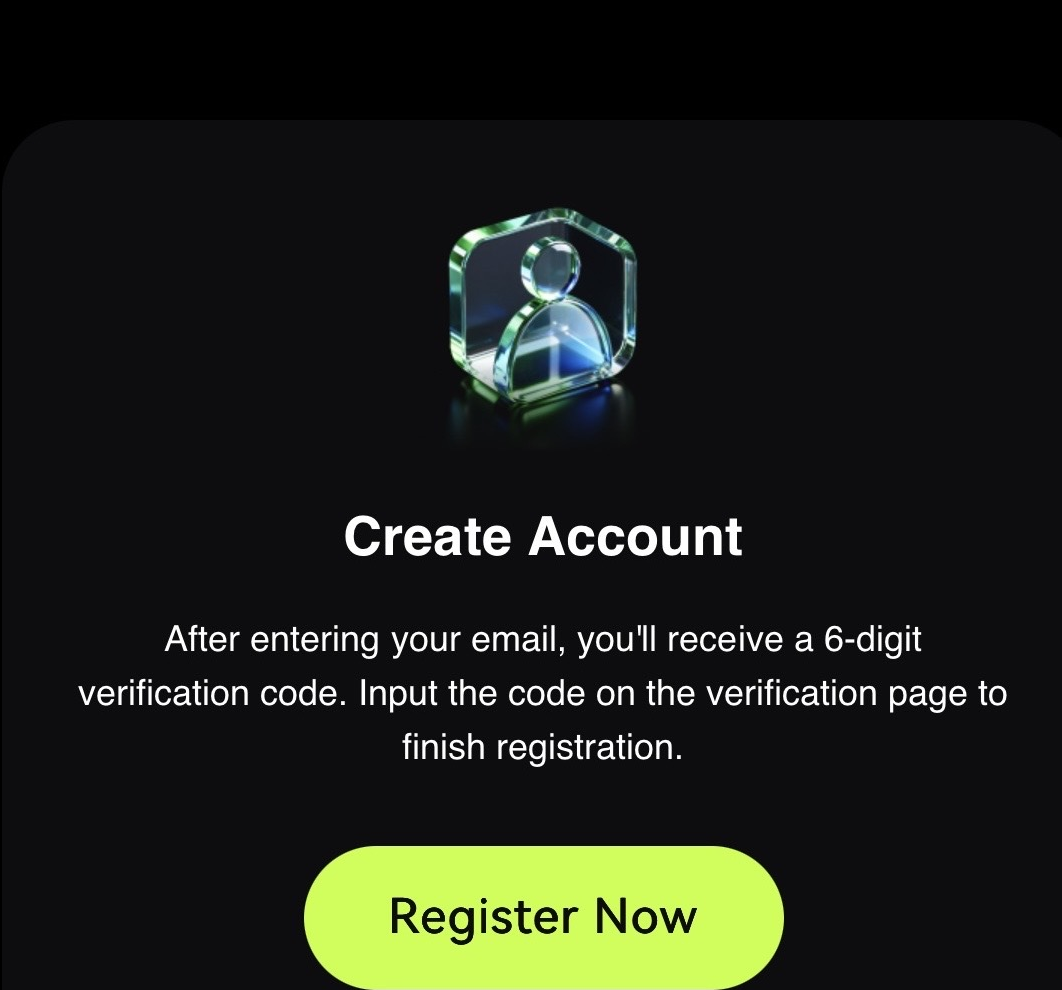
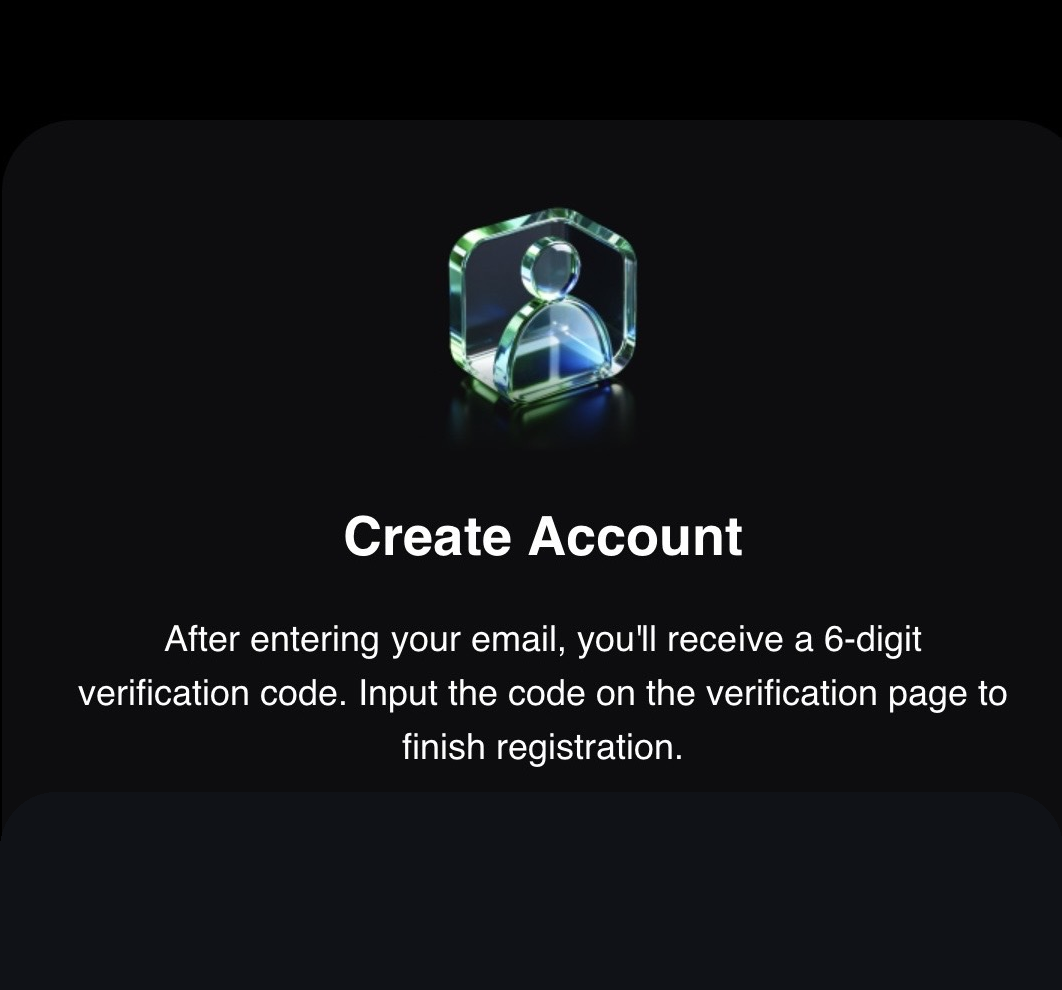
fix(ui): remove guide card button overlap

Changed region(s): [[0.2797, 0.8485, 0.7458, 1.0]]

diff --git a/public/coinflare.css b/public/coinflare.css
@@ -2005,6 +2005,7 @@ body.coinflare-page.cf-chart-open .cf-signup-link {
 .cf-trading-exp {
   display: grid;
   gap: 1rem;
+  background: #05070b;
 }
 
 .cf-guide-grid {
@@ -2018,7 +2019,7 @@ body.coinflare-page.cf-chart-open .cf-signup-link {
   position: relative;
   border-radius: 30px;
   border: 1px solid rgba(255, 255, 255, 0.06);
-  background: linear-gradient(180deg, rgba(255, 255, 255, 0.02), rgba(255, 255, 255, 0)), #101012;
+  background: #0d1015;
   box-shadow: 0 22px 42px rgba(0, 0, 0, 0.44);
   transition: transform 0.24s ease, box-shadow 0.24s ease, border-color 0.24s ease;
   overflow: hidden;
@@ -2042,6 +2043,7 @@ body.coinflare-page.cf-chart-open .cf-signup-link {
   position: relative;
   display: block;
   padding: 0.75rem;
+  background: #05070b;
   color: inherit;
   text-decoration: none;
 }
@@ -2051,7 +2053,7 @@ body.coinflare-page.cf-chart-open .cf-signup-link {
   display: block;
   border-radius: 24px;
   overflow: hidden;
-  background: #101012;
+  background: #0d1015;
 }
 
 .cf-guide-card-visual img {
@@ -2061,24 +2063,10 @@ body.coinflare-page.cf-chart-open .cf-signup-link {
   object-fit: cover;
 }
 
-.cf-guide-button-mask {
-  position: absolute;
-  left: 50%;
-  bottom: 1.45rem;
-  transform: translateX(-50%);
-  width: min(calc(100% - 5rem), 17.5rem);
-  height: 4.5rem;
-  border-radius: 999px;
-  background: #15181f;
-  box-shadow: inset 0 1px 0 rgba(255, 255, 255, 0.04), 0 16px 28px rgba(0, 0, 0, 0.28);
-  z-index: 2;
-  pointer-events: none;
-}
-
 .cf-guide-cta {
   position: absolute;
   left: 50%;
-  bottom: 1.85rem;
+  bottom: 1.55rem;
   transform: translateX(-50%);
   display: inline-flex;
   align-items: center;
@@ -3002,17 +2990,11 @@ body.coinflare-page.cf-chart-open .cf-signup-link {
     padding: 0.7rem;
   }
 
-  .cf-guide-button-mask {
-    width: calc(100% - 4.4rem);
-    height: 4.05rem;
-    bottom: 1.25rem;
-  }
-
   .cf-guide-cta {
     min-width: calc(100% - 4.4rem);
     min-height: 3.15rem;
     font-size: 1rem;
-    bottom: 1.58rem;
+    bottom: 1.38rem;
   }
 
   .cf-market-tabs {
@@ -3414,16 +3396,10 @@ body.coinflare-page.cf-chart-open .cf-signup-link {
     padding: 0.65rem;
   }
 
-  .cf-guide-button-mask {
-    width: calc(100% - 3.6rem);
-    height: 3.7rem;
-    bottom: 1rem;
-  }
-
   .cf-guide-cta {
     min-width: calc(100% - 3.6rem);
     min-height: 2.95rem;
-    bottom: 1.32rem;
+    bottom: 1.12rem;
     font-size: 0.95rem;
   }
 

diff --git a/public/index.html b/public/index.html
@@ -5,7 +5,7 @@
     <meta name="viewport" content="width=device-width, initial-scale=1, viewport-fit=cover" />
     <title>Bitegit | Crypto Exchange</title>
     <link rel="stylesheet" href="/styles.css?v=20260303x" />
-    <link rel="stylesheet" href="/coinflare.css?v=20260327j" />
+    <link rel="stylesheet" href="/coinflare.css?v=20260327k" />
     <link rel="stylesheet" href="/mobile-nav.css?v=20260303x" />
   <script src="/app-nav.js" defer></script></head>
   <body class="coinflare-page has-mobile-nav">
@@ -501,7 +501,6 @@
               <div class="cf-guide-card-visual">
                 <img src="/assets/home-guide/guide-card-art-1.png" alt="Create account card" loading="lazy" />
               </div>
-              <span class="cf-guide-button-mask" aria-hidden="true"></span>
               <span class="cf-guide-cta">Register Now</span>
             </a>
           </article>
@@ -511,7 +510,6 @@
               <div class="cf-guide-card-visual">
                 <img src="/assets/home-guide/guide-card-art-2.png" alt="Deposit funds card" loading="lazy" />
               </div>
-              <span class="cf-guide-button-mask" aria-hidden="true"></span>
               <span class="cf-guide-cta">Go to Buy Coins</span>
             </a>
           </article>
@@ -521,7 +519,6 @@
               <div class="cf-guide-card-visual">
                 <img src="/assets/home-guide/guide-card-art-3.png" alt="Start trading card" loading="lazy" />
               </div>
-              <span class="cf-guide-button-mask" aria-hidden="true"></span>
               <span class="cf-guide-cta">Go to Trading</span>
             </a>
           </article>
